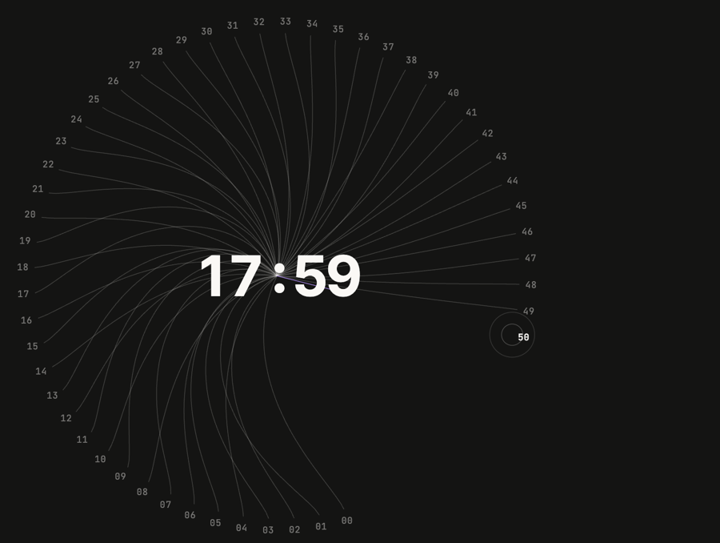
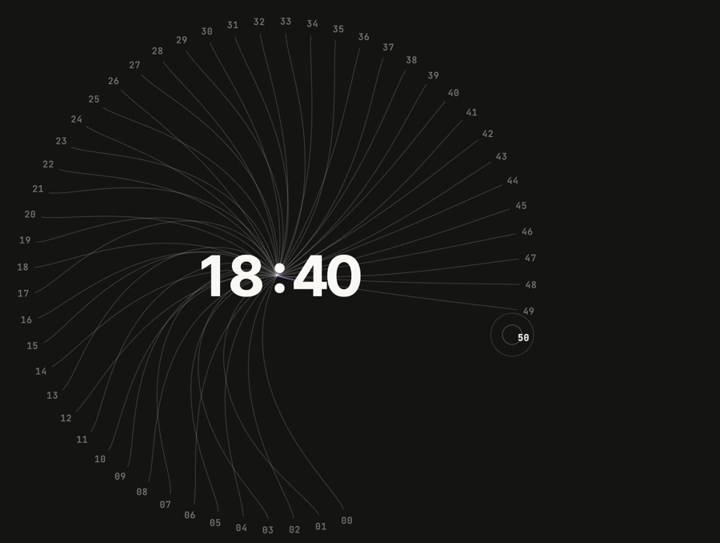
Lotus forms from the lines in the final turn
Instead of a separate lotus fading in on top, the lines themselves
gather into a 12-petal lotus during the end-of-minute turn, and each
petal is filled between its own two edge lines. The petals keep their
shape as the lines draw back in at :00. Preview images and docs updated.

diff --git a/lotus-clock.js b/lotus-clock.js
@@ -27,6 +27,13 @@ const GLOW_MS = 1700;         // ripple of light through the digits at :00
 const TWIST_K = 0.26;         // twist a line keeps per radian the dial turns
 const LAG_K = 250;            // extra trail while the dial moves (rad per rad/ms)
 const SAMPLES = 40;
+// In the final turn the lines gather into a lotus: every 5 lines make one petal (12 petals),
+// long and short alternating. The outer pair of each group become the petal's edges.
+const PER_PETAL = 5;
+const PETALS = 60 / PER_PETAL;
+const petalLen = (g) => (g % 2 ? 0.72 : 1);
+const petalWid = (g) => (g % 2 ? 0.46 : 0.34);                       // half-width, share of length
+const petalShape = (u) => Math.sin(Math.PI * Math.pow(u, 1.36));     // pointed ends, fullest past the middle
 
 /* ---------------------------------------------------------------------------
  * Sound: a synthesised Tibetan singing bowl, shared by every clock on the page.
@@ -173,9 +180,8 @@ text.now { opacity: 1; font-weight: 600; }
 .ripple { fill: none; stroke: currentColor; stroke-opacity: .5; stroke-width: .75; vector-effect: non-scaling-stroke; }
 .ripple.big { stroke: var(--_accent); stroke-opacity: .55; }
 .converge { fill: none; stroke: var(--_accent); stroke-opacity: .75; stroke-width: .9; vector-effect: non-scaling-stroke; opacity: 0; }
-.lotus { opacity: 0; }
-.lotus path { fill: var(--_accent); stroke: var(--_accent); stroke-opacity: .5; stroke-width: .75; stroke-linejoin: round; vector-effect: non-scaling-stroke; }
-.r0 path { fill-opacity: .13; } .r1 path { fill-opacity: .2; } .r2 path { fill-opacity: .3; }
+.petal { fill: var(--_accent); stroke: none; opacity: 0; }
+.petal.long { fill-opacity: .16; } .petal.short { fill-opacity: .3; }
 .clock {
   position: absolute; left: 50%; top: 50%; transform: translate(-50%, -50%);
   display: flex; align-items: baseline; white-space: nowrap;
@@ -426,12 +432,9 @@ export class LotusClock extends HTMLElement {
   _buildSvg() {
     const svg = this._el.svg;
     this._gLabels = this._mk('g', { class: 'labels' }, svg);
-    this._gLotus = this._mk('g', { class: 'lotus' }, svg);
-    this._lotusRings = [
-      { n: 8, len: 0.98, w: 0.42, off: 0 },
-      { n: 8, len: 0.74, w: 0.46, off: Math.PI / 8 },
-      { n: 8, len: 0.5, w: 0.5, off: 0 },
-    ].map((ring, i) => Object.assign(ring, { g: this._mk('g', { class: `r${i}` }, this._gLotus) }));
+    // Petal fills sit behind the lines; their shape is taken from the lines every frame.
+    this._gPetals = this._mk('g', { class: 'petals' }, svg);
+    this._petals = Array.from({ length: PETALS }, (_, g) => this._mk('path', { class: g % 2 ? 'petal short' : 'petal long' }, this._gPetals));
     this._gLines = this._mk('g', { class: 'lines' }, svg);
     this._gRipples = this._mk('g', { class: 'ripples' }, svg);
     this._converge = [0, 1, 2].map(() => this._mk('circle', { class: 'converge' }, this._gRipples));
@@ -456,20 +459,6 @@ export class LotusClock extends HTMLElement {
     this._geo = { cx, cy, R, rIn, sparse: (TAU * R) / 60 < 22 };
     this._el.svg.setAttribute('viewBox', `0 0 ${host.width} ${host.height}`);
     Object.assign(this._el.bowl.style, { left: `${cx - rIn}px`, top: `${cy - rIn}px`, width: `${rIn * 2}px`, height: `${rIn * 2}px` });
-    // Lotus petals around (0, 0); turned and placed every frame.
-    const b0 = R * 0.05;
-    this._lotusRings.forEach((ring) => {
-      while (ring.g.firstChild) ring.g.firstChild.remove();
-      const L = R * ring.len, w = (L * ring.w) / 2;
-      for (let i = 0; i < ring.n; i++) {
-        const a = ring.off + (i * TAU) / ring.n, ca = Math.cos(a), sa = Math.sin(a);
-        const P = (x, y) => `${(ca * (b0 + x) - sa * y).toFixed(1)},${(sa * (b0 + x) + ca * y).toFixed(1)}`;
-        this._mk('path', {
-          d: `M${P(0, -w * 0.12)}C${P(L * 0.3, -w * 1.3)} ${P(L * 0.84, -w * 0.85)} ${P(L, 0)}` +
-             `C${P(L * 0.84, w * 0.85)} ${P(L * 0.3, w * 1.3)} ${P(0, w * 0.12)}Z`,
-        }, ring.g);
-      }
-    });
     this._placedRot = null;
     this._placeLabels();
     this._paintLabels();
@@ -506,6 +495,9 @@ export class LotusClock extends HTMLElement {
     const drag = s % 2 ? rand(1.05, 1.5) : rand(0.5, 0.95);
     this._lines.push({
       s, th: this._angle(s), drag,
+      g: Math.floor(s / PER_PETAL),                                       // which petal it joins
+      c: ((s % PER_PETAL) - (PER_PETAL - 1) / 2) / ((PER_PETAL - 1) / 2), // −1 … +1 across the petal
+      mFix: null, pts: [],
       twist: age * Math.abs(STEP) * TWIST_K * drag,
       f: rand(1, 2.4), w: rand(1.2, 2.8), phi: rand(0, TAU),
       born: now + delay, pluckAt: now + delay + GROW_MS * 0.75, pluckAmp: rand(5, 9),
@@ -542,7 +534,8 @@ export class LotusClock extends HTMLElement {
     this._lines
       .filter((st) => st.retractAt === null)
       .sort((a, b) => a.s - b.s)
-      .forEach((st, i) => { st.retractAt = now + i * 9; });
+      .forEach((st, i) => { st.retractAt = now + i * 9; st.mFix = this._form || 0; });   // keep the lotus shape while closing
+    this._form = 0;
   }
 
   _startOver(now, key) {
@@ -596,19 +589,9 @@ export class LotusClock extends HTMLElement {
     } else this._angVel = 0;
     this._lastRot = this._rot; this._lastFrame = now;
 
-    // Amethyst lotus: opens through the turn, fades as the minute changes.
-    let lv = 0, ls = 1;
-    if (!still && finale) {
-      if (turn > 0) { lv = smoothstep(Math.min(1, turn * 1.5)); ls = 0.3 + 0.7 * ease(turn); }
-      else if (now - this._rolledAt < 1300) { const f = (now - this._rolledAt) / 1300; lv = 1 - smoothstep(f); ls = 1 + 0.1 * ease(f); }
-    }
-    this._gLotus.style.opacity = lv.toFixed(3);
-    if (lv > 0.001) {
-      this._lotusRings.forEach((ring, i) => {
-        const deg = ((this._rot + (spin * i) / 8) * 180) / Math.PI;   // multiples of 45°: no jump at :00
-        ring.g.setAttribute('transform', `translate(${cx.toFixed(1)} ${cy.toFixed(1)}) rotate(${deg.toFixed(2)}) scale(${ls.toFixed(3)})`);
-      });
-    }
+    // How far the lines have gathered into the lotus: only during the final turn.
+    const form = still || !finale ? 0 : smoothstep(clamp(turn * 1.3, 0, 1));
+    if (turn > 0) this._form = form;   // remembered past :00 so the closing lotus keeps its shape
     this._placeLabels();
 
     // Lines.
@@ -628,7 +611,17 @@ export class LotusClock extends HTMLElement {
       const trail = st.twist - this._angVel * LAG_K * st.drag;
       const A = !still && now >= st.pluckAt ? st.pluckAmp * Math.exp(-(now - st.pluckAt) / 480) : 0;
 
+      // Its place in the lotus (only used while gathering): along the petal's axis, bowed across it.
+      const m = st.mFix === null ? form : st.mFix;
+      let ux = 0, uy = 0, vx = 0, vy = 0, Lp = 0, Wp = 0;
+      if (m > 0.001) {
+        const ax = this._angle(st.g * PER_PETAL + (PER_PETAL - 1) / 2) + this._rot;
+        ux = Math.cos(ax); uy = Math.sin(ax); vx = -uy; vy = ux;
+        Lp = R * petalLen(st.g); Wp = Lp * petalWid(st.g) * st.c;
+      }
+
       let d = '';
+      const pts = st.pts; pts.length = 0;
       for (let i = 0; i <= SAMPLES; i++) {
         const u = end * (i / SAMPLES);
         const x = R * u;
@@ -639,11 +632,40 @@ export class LotusClock extends HTMLElement {
           const cl = Math.cos(lag), sl = Math.sin(lag);
           [px, py] = [px * cl - py * sl, px * sl + py * cl];
         }
-        d += `${i ? 'L' : 'M'}${(cx + px).toFixed(1)},${(cy + py).toFixed(1)}`;
+        if (m > 0.001) {
+          const sh = petalShape(u);
+          px += (ux * Lp * u + vx * Wp * sh - px) * m;
+          py += (uy * Lp * u + vy * Wp * sh - py) * m;
+        }
+        const X = cx + px, Y = cy + py;
+        pts.push(X, Y);
+        d += `${i ? 'L' : 'M'}${X.toFixed(1)},${Y.toFixed(1)}`;
       }
+      st.m = m;
       st.path.setAttribute('d', d);
       st.path.classList.toggle('now', st.s === this._current && st.retractAt === null);
       return true;
+    });
+
+    // Fill each petal between its two edge lines, so the colour is shaped by the lines themselves.
+    const groups = new Map();
+    this._lines.forEach((st) => {
+      if (!(st.m > 0.01) || !st.pts.length) return;
+      const grp = groups.get(st.g) || { lo: null, hi: null, m: 0, n: 0 };
+      if (!grp.lo || st.c < grp.lo.c) grp.lo = st;
+      if (!grp.hi || st.c > grp.hi.c) grp.hi = st;
+      grp.m += st.m; grp.n++;
+      groups.set(st.g, grp);
+    });
+    this._petals.forEach((el, g) => {
+      const grp = groups.get(g);
+      if (!grp || grp.lo === grp.hi) { el.style.opacity = '0'; return; }
+      const a = grp.hi.pts, b = grp.lo.pts;
+      let d = `M${a[0].toFixed(1)},${a[1].toFixed(1)}`;
+      for (let i = 2; i < a.length; i += 2) d += `L${a[i].toFixed(1)},${a[i + 1].toFixed(1)}`;
+      for (let i = b.length - 2; i >= 0; i -= 2) d += `L${b[i].toFixed(1)},${b[i + 1].toFixed(1)}`;
+      el.setAttribute('d', d + 'Z');
+      el.style.opacity = (grp.m / grp.n).toFixed(3);
     });
 
     // Rings close in on the digits before :00.

diff --git a/README.md b/README.md
@@ -1,6 +1,6 @@
 # lotus-clock
 
-A kinetic clock as a drop-in web component. Each second a straight line grows from the time to its place on the dial; every step of the dial leaves a little twist behind, so the lines slowly curl and cross as the minute goes on. In the last seconds the dial makes a full turn, an amethyst lotus blooms underneath, and a ripple of light runs through the digits as the minute changes.
+A kinetic clock as a drop-in web component. Each second a straight line grows from the time to its place on the dial; every step of the dial leaves a little twist behind, so the lines slowly curl and cross as the minute goes on. In the last seconds the dial makes a full turn and the lines gather into a lotus, filled with amethyst between them; a ripple of light runs through the digits as the minute changes and the lotus closes back into the centre.
 
 No dependencies, no build step, one file. Works in plain HTML, React, Vue, Svelte or anything else that renders DOM.
 
@@ -8,7 +8,7 @@ No dependencies, no build step, one file. Works in plain HTML, React, Vue, Svelt
 
 <p align="center">
   <img src="docs/preview.png" width="32%" alt="Lines curling as the minute passes">
-  <img src="docs/preview-spin.png" width="32%" alt="Amethyst lotus during the final turn">
+  <img src="docs/preview-spin.png" width="32%" alt="The lines gathered into an amethyst lotus during the final turn">
   <img src="docs/preview-dark.png" width="32%" alt="Dark theme">
 </p>
 
@@ -16,7 +16,7 @@ No dependencies, no build step, one file. Works in plain HTML, React, Vue, Svelt
 
 - **Stepping dial.** The newest second always lands on the same spot; older seconds travel round.
 - **Lines that take shape from motion.** Straight on arrival, curving as the dial turns, tangling in the final spin.
-- **Minute finale.** One full turn, converging rings, a filled amethyst lotus and a ripple through the digits.
+- **Minute finale.** One full turn while the lines gather into a 12-petal lotus (the colour fills the space between each petal's edge lines), converging rings, and a ripple of light through the digits.
 - **Countdown mode.** Turn it into a focus timer with `countdown('25:00')`, with pause, resume and a `complete` event.
 - **Singing bowl (optional).** Sound synthesised with the Web Audio API: a water-drop per second, a rim-rub swell into the minute, and a bowl strike you can ring by pressing the middle.
 - **Any time zone.** Pass an IANA zone like `Asia/Kathmandu`.
@@ -28,7 +28,7 @@ No dependencies, no build step, one file. Works in plain HTML, React, Vue, Svelt
 **From a CDN** (no install):
 
 ```html
-<script type="module" src="https://cdn.jsdelivr.net/gh/Sagunnn/lotus-clock@1.0.0/lotus-clock.js"></script>
+<script type="module" src="https://cdn.jsdelivr.net/gh/Sagunnn/lotus-clock@1.0.1/lotus-clock.js"></script>
 ```
 
 **With npm** (straight from GitHub):
@@ -47,7 +47,7 @@ import 'lotus-clock';                    // registers <lotus-clock>
 ## Quick start
 
 ```html
-<script type="module" src="https://cdn.jsdelivr.net/gh/Sagunnn/lotus-clock@1.0.0/lotus-clock.js"></script>
+<script type="module" src="https://cdn.jsdelivr.net/gh/Sagunnn/lotus-clock@1.0.1/lotus-clock.js"></script>
 
 <lotus-clock style="width: 480px"></lotus-clock>
 ```
@@ -146,7 +146,7 @@ For deeper changes, the shadow DOM exposes parts: `::part(stage)`, `::part(time)
 <button id="go">Start focus</button>
 
 <script type="module">
-  import 'https://cdn.jsdelivr.net/gh/Sagunnn/lotus-clock@1.0.0/lotus-clock.js';
+  import 'https://cdn.jsdelivr.net/gh/Sagunnn/lotus-clock@1.0.1/lotus-clock.js';
 
   const clock = document.getElementById('pomodoro');
   const plan = ['25:00', '5:00', '25:00', '5:00', '25:00', '5:00', '25:00', '15:00'];
@@ -247,7 +247,7 @@ Current Chrome, Edge, Safari and Firefox. It uses Custom Elements, Shadow DOM, `
 
 - 60 points sit on a circle. Each second, a line grows from the centre of the time to the newest point, and the whole dial eases one step (6°) counterclockwise so the newest point is always in the same place.
 - Every frame, each line rotates its inner points by a lag that grows with how far the dial has turned since the line arrived, plus a little extra while the dial is moving. Neighbouring lines lag by different amounts, so their curves cross.
-- From :56 the dial adds one full turn. A three-ring SVG lotus fades and scales in underneath, rings close in on the digits, and at :00 a masked copy of the digits in the accent colour reveals a ripple of light.
+- From :56 the dial adds one full turn and every line eases toward a place in a lotus: each group of five lines becomes a petal (the middle line the midrib, the outer pair its edges), 12 petals alternating long and short. Each petal is filled with a path built from its two edge lines, so the colour is shaped by the lines. Rings close in on the digits, and at :00 a masked copy of the digits in the accent colour reveals a ripple of light while the lines draw back in.
 - The bowl is four sine oscillators (a fundamental, a partner 1.8 Hz above for the slow beating, and partials at ×2.71 and ×4.83) through a low-pass filter, a generated reverb and a short echo.
 
 ## Development
